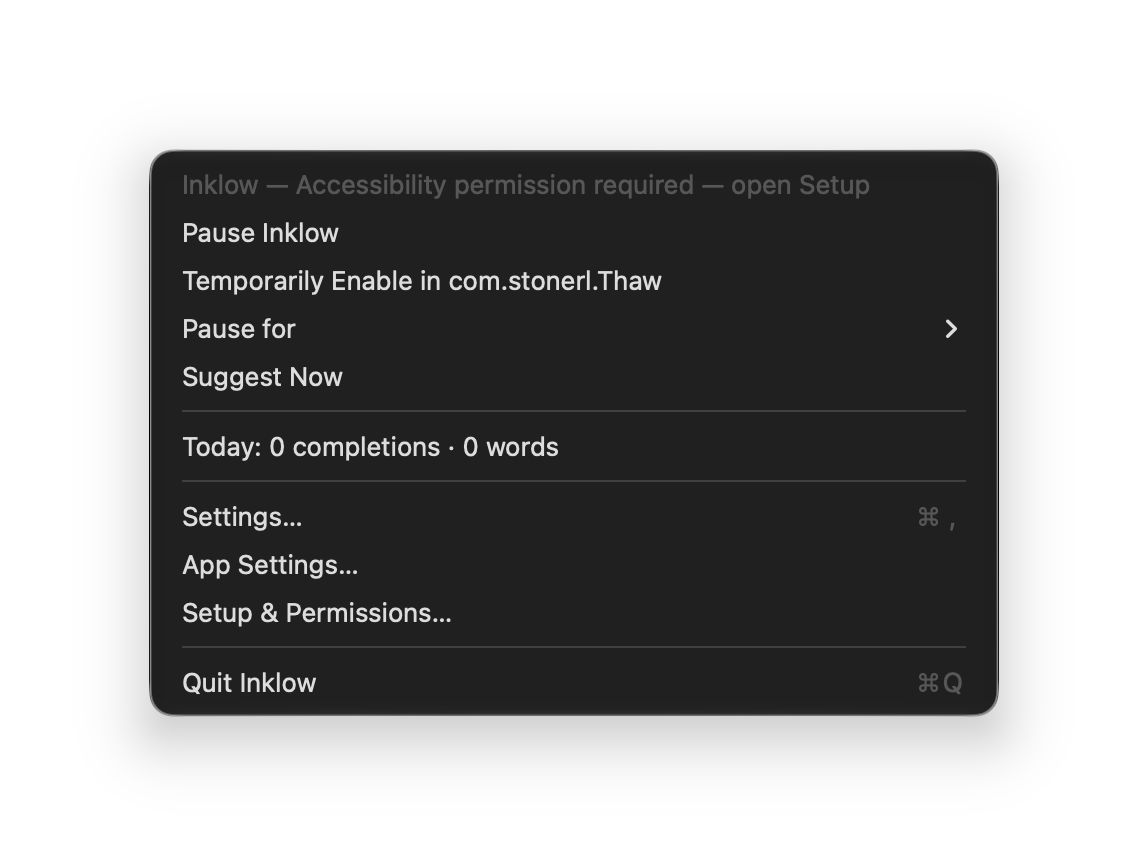
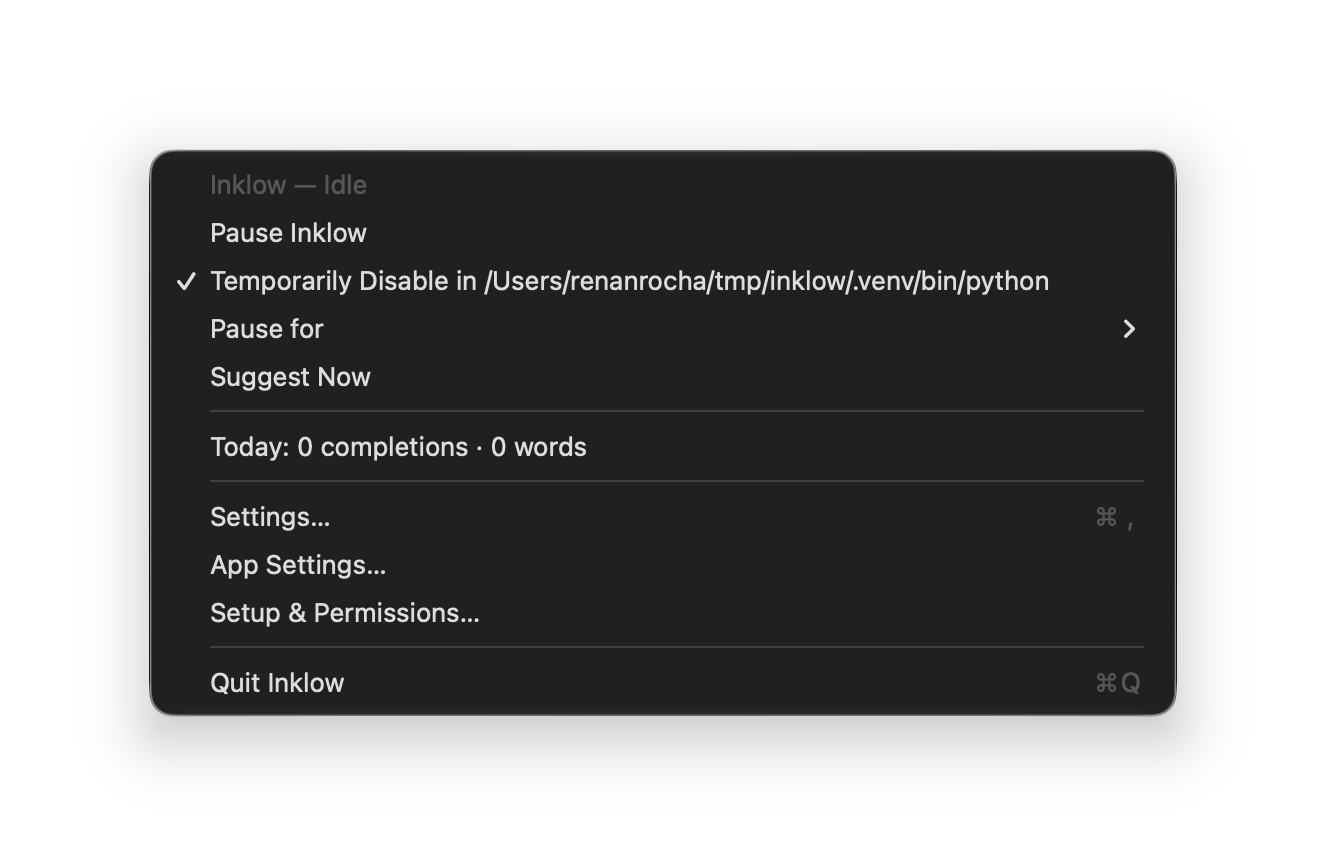
docs: verify installed native menus after OS reapproval [skip ci]

Changed region(s): [[0.0915, 0.1559, 0.7927, 0.8418], [0.7927, 0.1559, 0.9146, 0.8418], [0.6402, 0.1871, 0.7622, 0.2494]]

diff --git a/evidence/VERIFICATION.md b/evidence/VERIFICATION.md
@@ -132,7 +132,9 @@ Thaw had assigned `com.inklow.Inklow:inklow.statusItem` to Hidden. Its exact liv
 
[1 lines of base64/hex data omitted]
 
-**Remaining user-controlled gate:** a normal LaunchServices `doctor` reported Accessibility denied after the signing-identity transition, and the new normal-launch field smoke could not display an accessory. On this macOS the permission page is **Privacy & Security → Device Control and Data Access**. The user must reapprove the current `/Applications/Inklow.app` there before normal-launch field verification can finish. This repair did not toggle or reset an OS grant.
+**User-controlled permission transition:** a normal LaunchServices `doctor` reported Accessibility denied after the signing-identity transition, and the new normal-launch field smoke could not display an accessory. The first user-reported re-add did not resolve it: Inklow-specific OS logs explicitly rejected the saved old cdhash requirement `4186c8bd94732224bc18206da17109865326eaaa`. With fresh explicit user authorization, only `tccutil reset Accessibility com.inklow.Inklow` was run, and reported success. The user then manually added/enabled the current app in **Privacy & Security → Device Control and Data Access**. No grant was toggled by the assistant; no other app/service was reset.
+
+The **actual installed normally launched GUI then passed the complete field/menu scenario**: 24-point icon above the text, native accessory activation, two seconds of open-menu tracking, actual Pause selection/persistence, a fully on-screen menu-bar icon, actual Resume selection/persistence, and Quit termination. The synthetic `cat` input remained unchanged. [Final normal-launch receipt](native-menu-smoke.json). An initial post-grant attempt closed during tracking; the subsequent uninterrupted, foreground-checked run passed in 10.62 seconds with no intervening source change or app rebuild. This is actual native accessibility-action evidence, not physical mouse-device coverage or model-quality evidence.
 
 Local integrated suite: **252 passed, 1 skipped in 11.26 seconds**. The macOS skip is the intentionally absent Qt module, not a portable pass. [CI run 40077282052](https://github.com/renan-brasilio/inklow/actions/runs/40077282052) passed macOS, Windows, and Ubuntu at the source revision above, including regressions, actual settings/source inference, native packaging, frozen inference, and artifact upload. Windows/Linux remain headless CI evidence, not interactive desktop accessibility certification.
 
